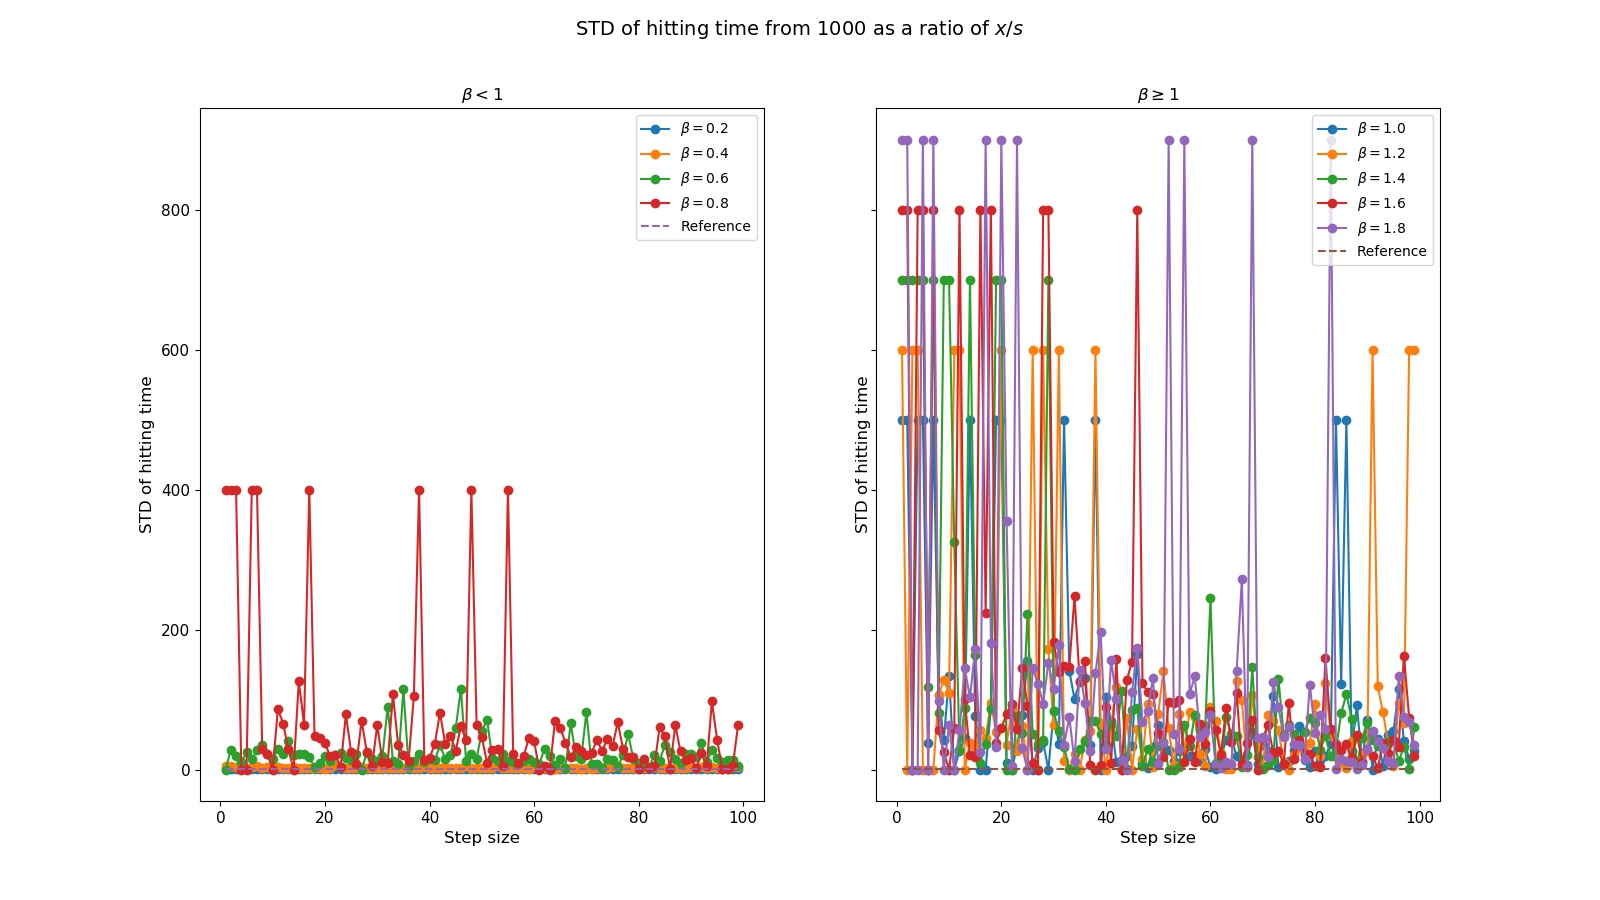
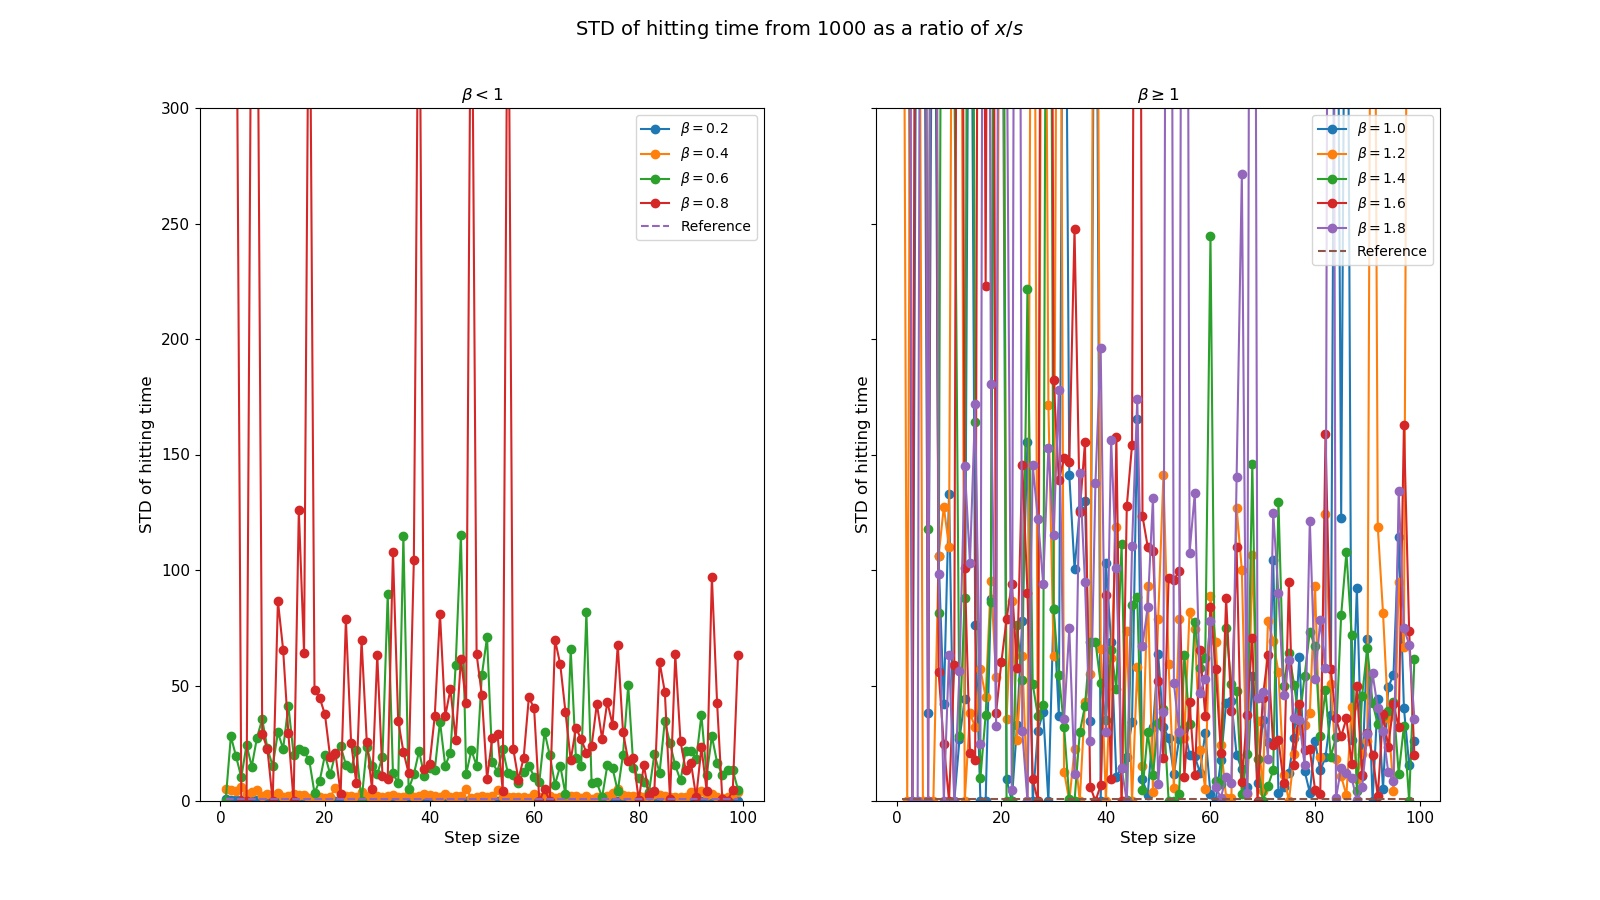
Fixed ratio plot bounds

diff --git a/src/varstep/plotmaker_ratio.py b/src/varstep/plotmaker_ratio.py
@@ -1,7 +1,7 @@
 from numpy import arange, load
 import matplotlib.pyplot as plt
 
-init_pos = 1000
+init_pos = 100
 # set some indices
 means = load('data/means_from_{0}.npy'.format(init_pos))
 stds = load('data/stds_from_{0}.npy'.format(init_pos))
@@ -35,6 +35,7 @@ for splot in m_splots:
     splot.set_xlabel('Step size', fontsize=label_fontsize)
     splot.set_ylabel('Mean hitting time', fontsize=label_fontsize)
     splot.tick_params(axis='both', labelsize=axis_fontsize)
+    splot.set_ybound(0,500)
 m_splots[0].set_title(r'$\beta < 1$', fontsize=label_fontsize)
 m_splots[1].set_title(r'$\beta \geq 1$', fontsize=label_fontsize)
 
@@ -57,6 +58,7 @@ for splot in s_splots:
     splot.set_xlabel('Step size', fontsize=label_fontsize)
     splot.set_ylabel('STD of hitting time', fontsize=label_fontsize)
     splot.tick_params(axis='both', labelsize=axis_fontsize)
+    splot.set_ybound(0,500)
 s_splots[0].set_title(r'$\beta < 1$', fontsize=label_fontsize)
 s_splots[1].set_title(r'$\beta \geq 1$', fontsize=label_fontsize)
 
